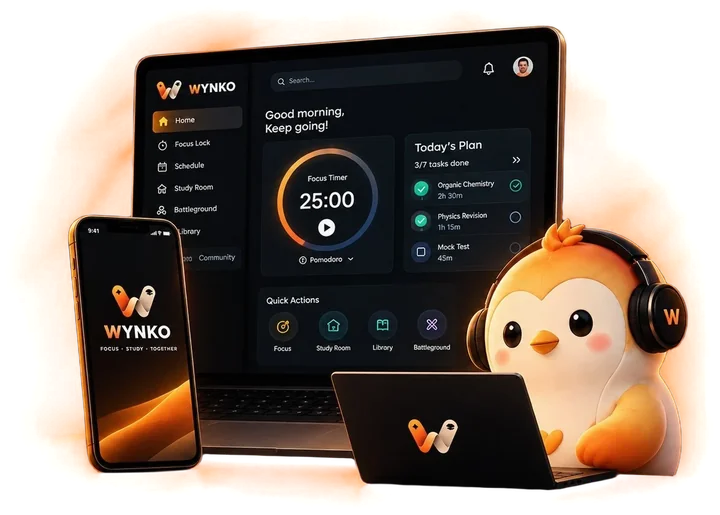
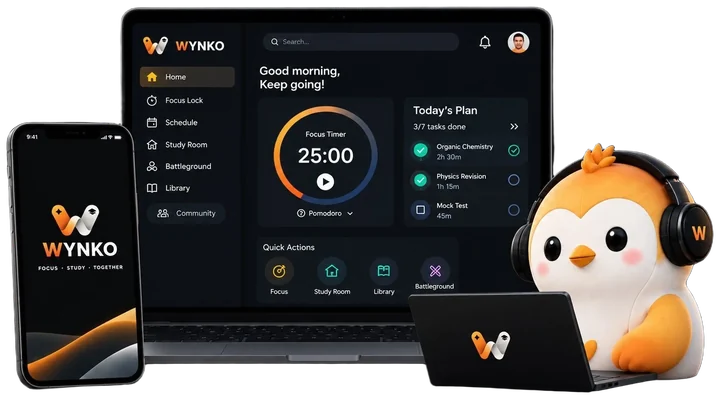
Hero: swap in the cleaner devices + Wynky image
Replaces the foreground with the new render (no orange halo baked in),
cut out on a transparent background and cropped tight. Nudges the
image's left edge so the phone keeps clear of the paragraph. Layout
and text sizes are unchanged.

Claude-Session: https://claude.ai/code/session_01T7jdKq8FrnmZvG4YBcAXr5

diff --git a/product.html b/product.html
@@ -208,7 +208,7 @@ header .btn-primary:hover, .hero .btn-primary:hover{ box-shadow:0 14px 40px -12p
 /* hero visual: devices + Wynky, in the same 590px-tall box the phone mockup used */
 .hero-visual{ position:relative; display:flex; align-items:center; min-height:590px; }
 .hero-visual img{
-  width:calc(100% + 60px + clamp(0px, (100vw - 1200px) / 2 + 4px, 180px)); max-width:none; height:auto; margin-left:-60px;
+  width:calc(100% + 36px + clamp(0px, (100vw - 1200px) / 2 + 4px, 180px)); max-width:none; height:auto; margin-left:-36px;
   filter:drop-shadow(0 28px 36px rgba(0,0,0,.55));
 }
 
@@ -594,7 +594,7 @@ footer{ border-top:1px solid var(--border); padding:60px 0 40px; background:rgba
     <div class="hero-visual" id="emulator">
       <picture>
         <source media="(max-width:760px)" srcset="assets/hero/wynko-hero-devices-720.webp" />
-        <img src="assets/hero/wynko-hero-devices.webp" width="1174" height="840" fetchpriority="high"
+        <img src="assets/hero/wynko-hero-devices.webp" width="1393" height="772" fetchpriority="high"
              alt="Wynko dashboard on a laptop, the Wynko mobile app, and Wynky the mascot studying on a laptop" />
       </picture>
     </div>
